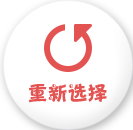
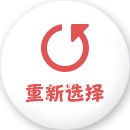
add btn

diff --git a/app/templates/result.html b/app/templates/result.html
@@ -14,7 +14,7 @@
 {% block content %}
     <img src="{{ url }}" alt="">
     <form action="/draw" id="result__form" class="result__btn" method="post">
-        <img onclick="submitAgain()" src="/static/img/result/btn1.png" alt="">
+        <img onclick="submitAgain()" src="/static/img/result/btn{{ pId }}.png" alt="">
         <input type="hidden" name="id" value="{{ id }}">
         <input type="hidden" name="name" value="{{ name }}">
     </form>
